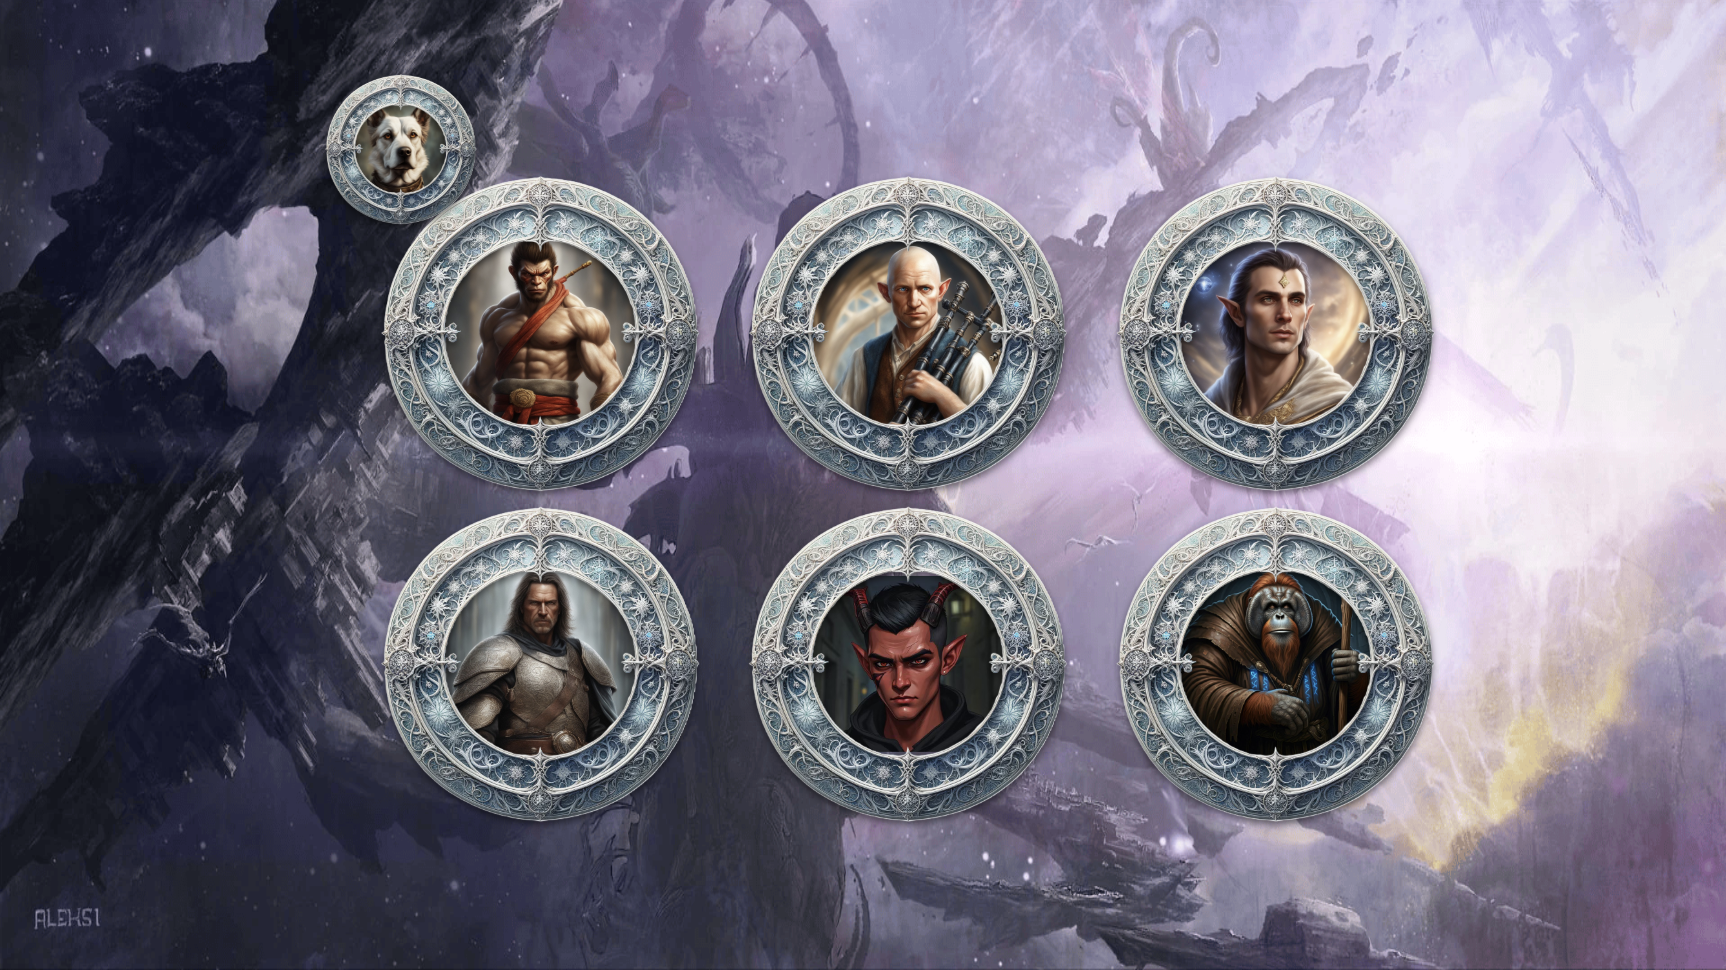
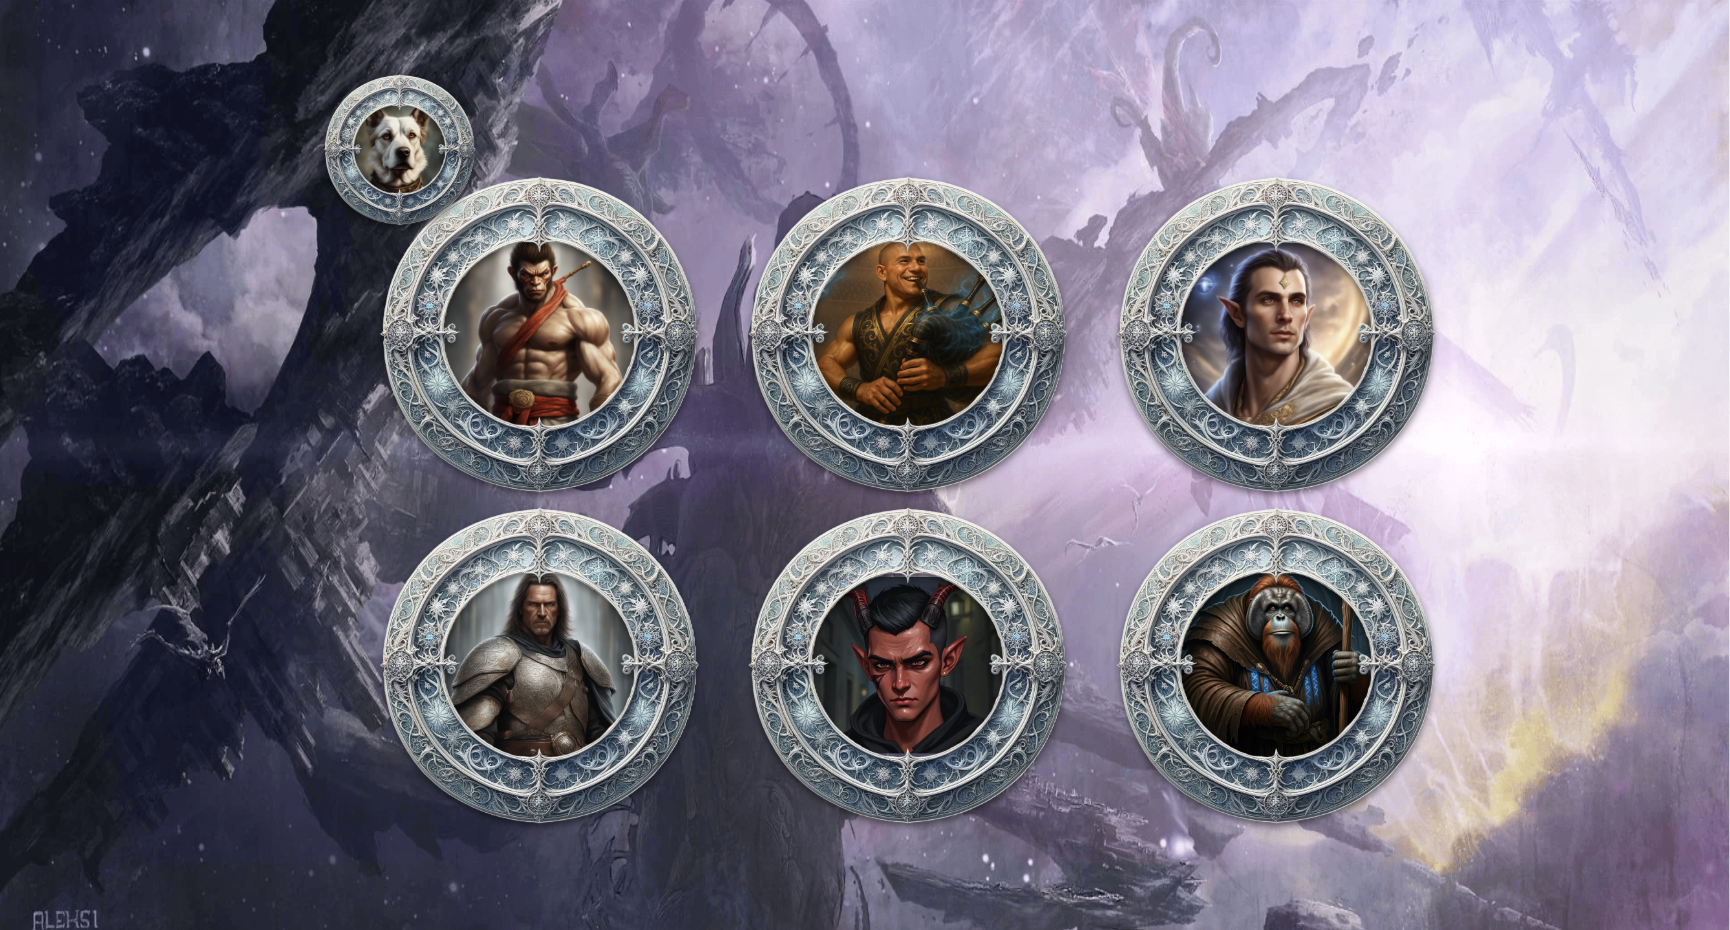
Quartz sync: Apr 26, 2025, 5:36 PM

diff --git a/content/DM Tools/Session Plans/UVM 2024-2025 Campaign/Session Plan 26.md b/content/DM Tools/Session Plans/UVM 2024-2025 Campaign/Session Plan 26.md
@@ -12,27 +12,27 @@
 - Party goes into their designated downtime activities 
 	- Eli 
 		- Going back to his village, jungle plane, lawyer, talk about forest cutting down 
+		- Proficiency in Persuasion and Deception
 	- Jackson 
-		- TBD
+		- You can prepare spells from both the Druid Spell List and the Zodiac Spell List
 	- Ben 
-		- TBD 
-		- Own runic language 
-			- Ham Sandwich 
+		- Learned runes and created a runic robot 
 	- Djani 
 		- Missions for Jackson Felwinter
 			- Freelancer now
 		- Full magic item replication 
 		- Degalith upgrade 
-			- Can roll half the amount of sneak attack dice to give a status effect 
-				- Burning 
-				- Eroding 
-				- Chilled 
-				- Wet 
-				- Electrocuted
-				- Deafened
+			- Can roll half the amount of damage dice to give a status effect for 2 turns 
+				- Burning --> takes fire damage equal to your intelligence modifier at the start of its turn
+				- Eroding --> has a -2 to armor 
+				- Chilled --> becomes vulnerable to cold damage
+				- Wet --> becomes vulnerable to lightning damage
+				- Electrocuted --> has a -2 to dexterity saving throws
+				- Deafened --> disadvantage on checks relying on sound
 	- Isaac
 		- Learning power word
 			- Learned powerword dance 
+				- Under 100 hp ottos irresistible dance always works for the first time
 			- learned command 
 		- Can pick any 2 spells per day that can be cast at their level 
 	- Matt 

diff --git a/content/The Multiverse/Magic Items/Eldritch Scarab.md b/content/The Multiverse/Magic Items/Eldritch Scarab.md
@@ -21,3 +21,11 @@ The Eldritch Scarab gives a +2 to spell attack rolls and spell save dc
 	- As an action you sprout wings that take the appearance of your choice. While the wings are sprouted you can use them to fly up to 4 hours, all at once or in several shorter flights, each using a minimum of 1 minute from the duration, if you are flying when the duration expires, you descend at a rate of 30 feet per round until you land. You can dismiss the wings as a action and it regains 2 hours of flying capability for every 12 hours not in use
 - Knive Barrage 
 	- Whenever you use your uncanny dodge, evasion, or reduce any damage dealt to you, you gain one charge, you can hold up to a maximum of 5 charges. As a reaction on your turn, you can expend all the charges to make a number of knife weapon attacks against any number of creatures within a 10 foot radius originating from you equal to the amount of charges you stored. 
+- Degaltih's Elemental Control 
+	- Can roll half the amount of damage dice to give a status effect for 2 turns 
+		- Burning --> takes fire damage equal to your intelligence modifier at the start of its turn
+		- Eroding --> has a -2 to armor 
+		- Chilled --> becomes vulnerable to cold damage
+		- Wet --> becomes vulnerable to lightning damage
+		- Electrocuted --> has a -2 to dexterity saving throws
+		- Deafened --> disadvantage on checks relying on sound

diff --git a/content/The Multiverse/NPCS/Villians/The Infinite Reader.md b/content/The Multiverse/NPCS/Villians/The Infinite Reader.md
@@ -2,7 +2,12 @@
 ##### Brief Summary 
 The Infinite Reader, also known as Nyarlathotep, is a great old one Runekeeper. 
 ##### Appearance 
-
+**Human Form**
+![[Pasted image 20250426164033.png]]
+**Dream Form**
+![[Pasted image 20250426164050.png]]
+**True Form**
+![[Pasted image 20250426164104.png]]
 ##### Personality 
 
 ##### Brief History/Timeline   

diff --git a/content/The Multiverse/NPCS/Heroes/NPC Peacekeepers/Yasu-2.md b/content/The Multiverse/NPCS/Heroes/NPC Peacekeepers/Yasu-2.md
@@ -4,7 +4,6 @@ tags: [Hero/Peacekeeper/S-Rank, Autognome/Cleric/Peace_Domain, Felwinter_Saga_Co
 
 ##### Brief Summary 
 Yasu-2 is a Autognome Light Cleric, a Sentient creation of [[Jotor Sparklefen]], and S-Rank [[Peacekeeper]]
-
 ##### Appearance 
 ![[Yasu-2.png]]
 ##### Personality 